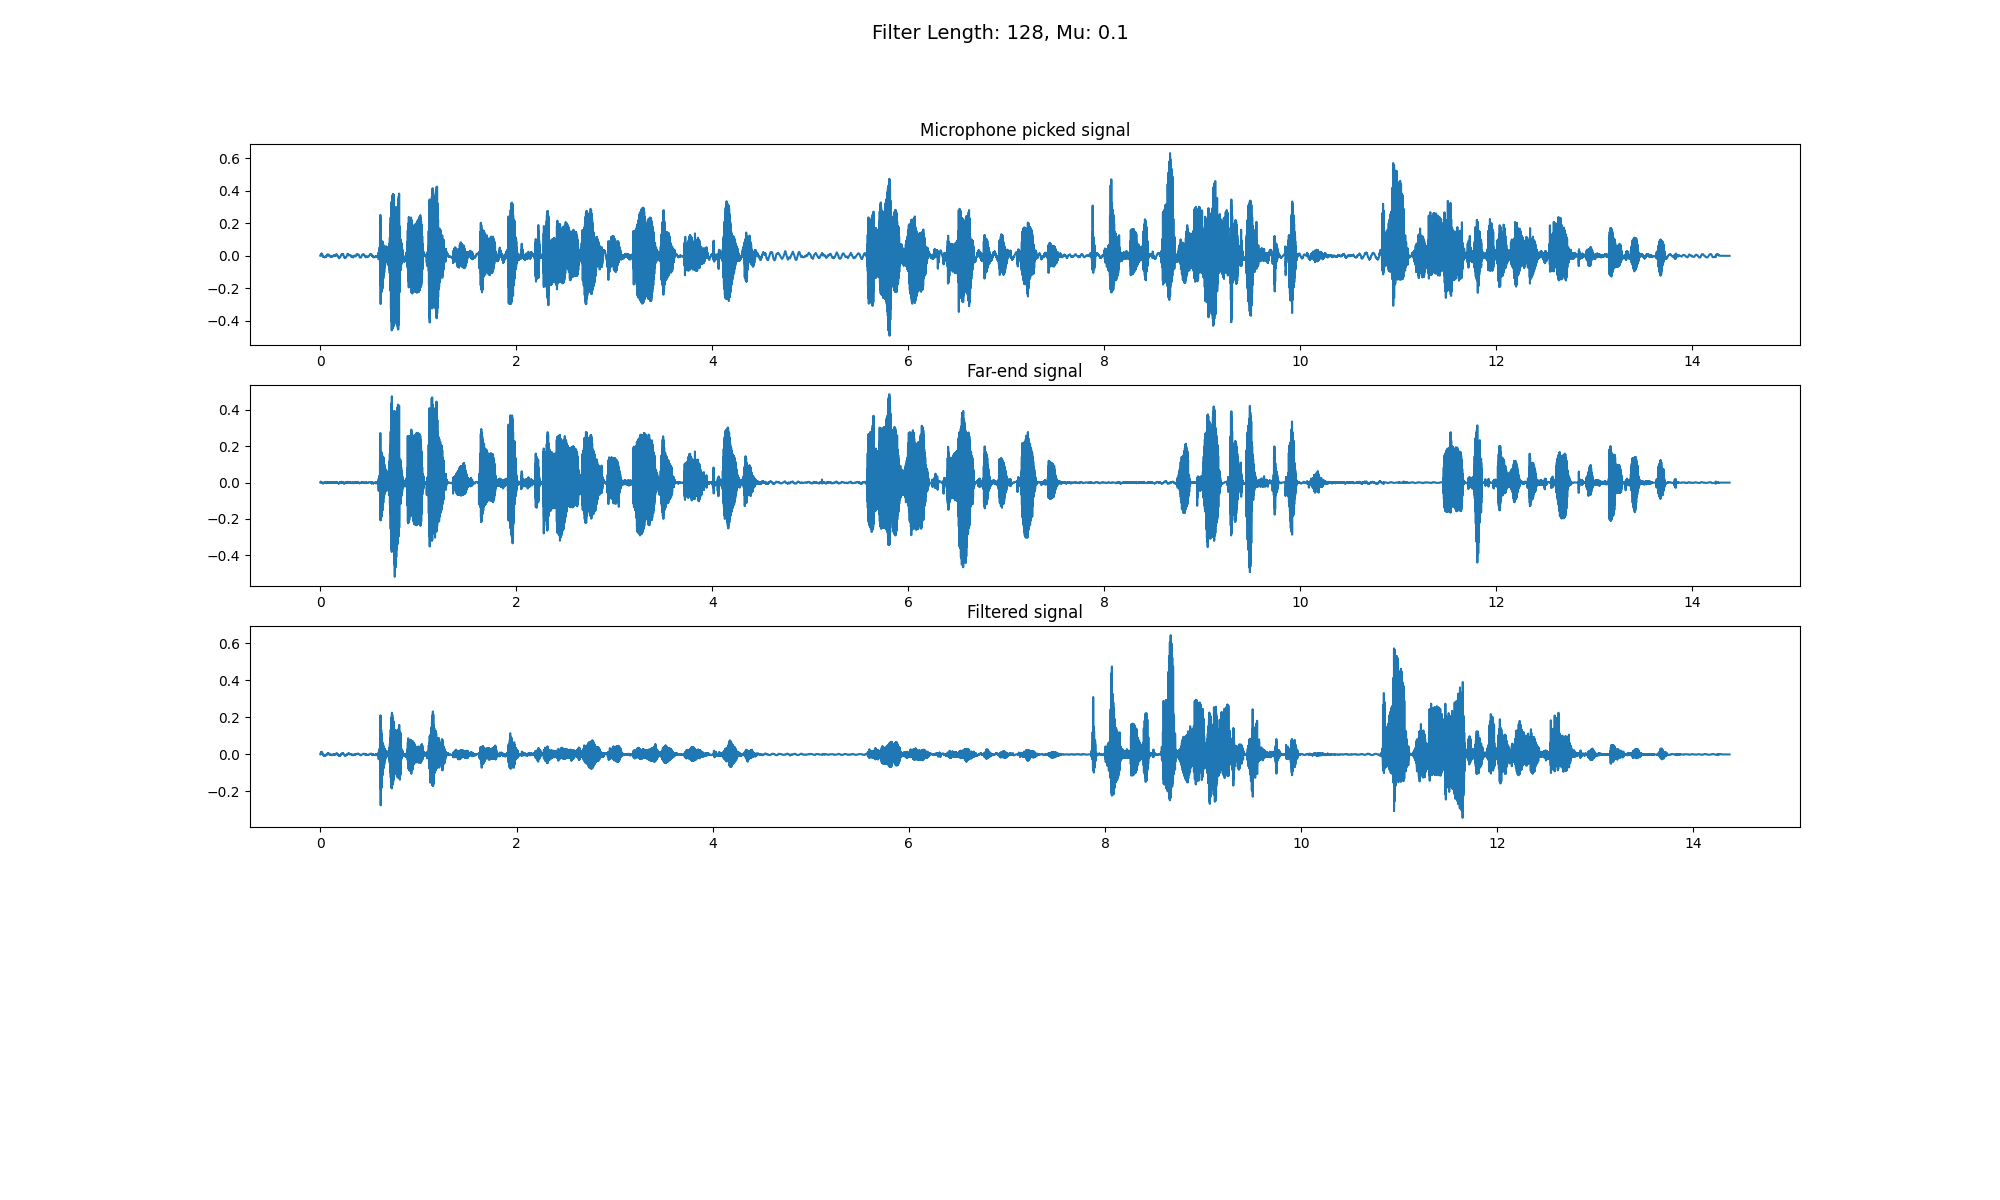
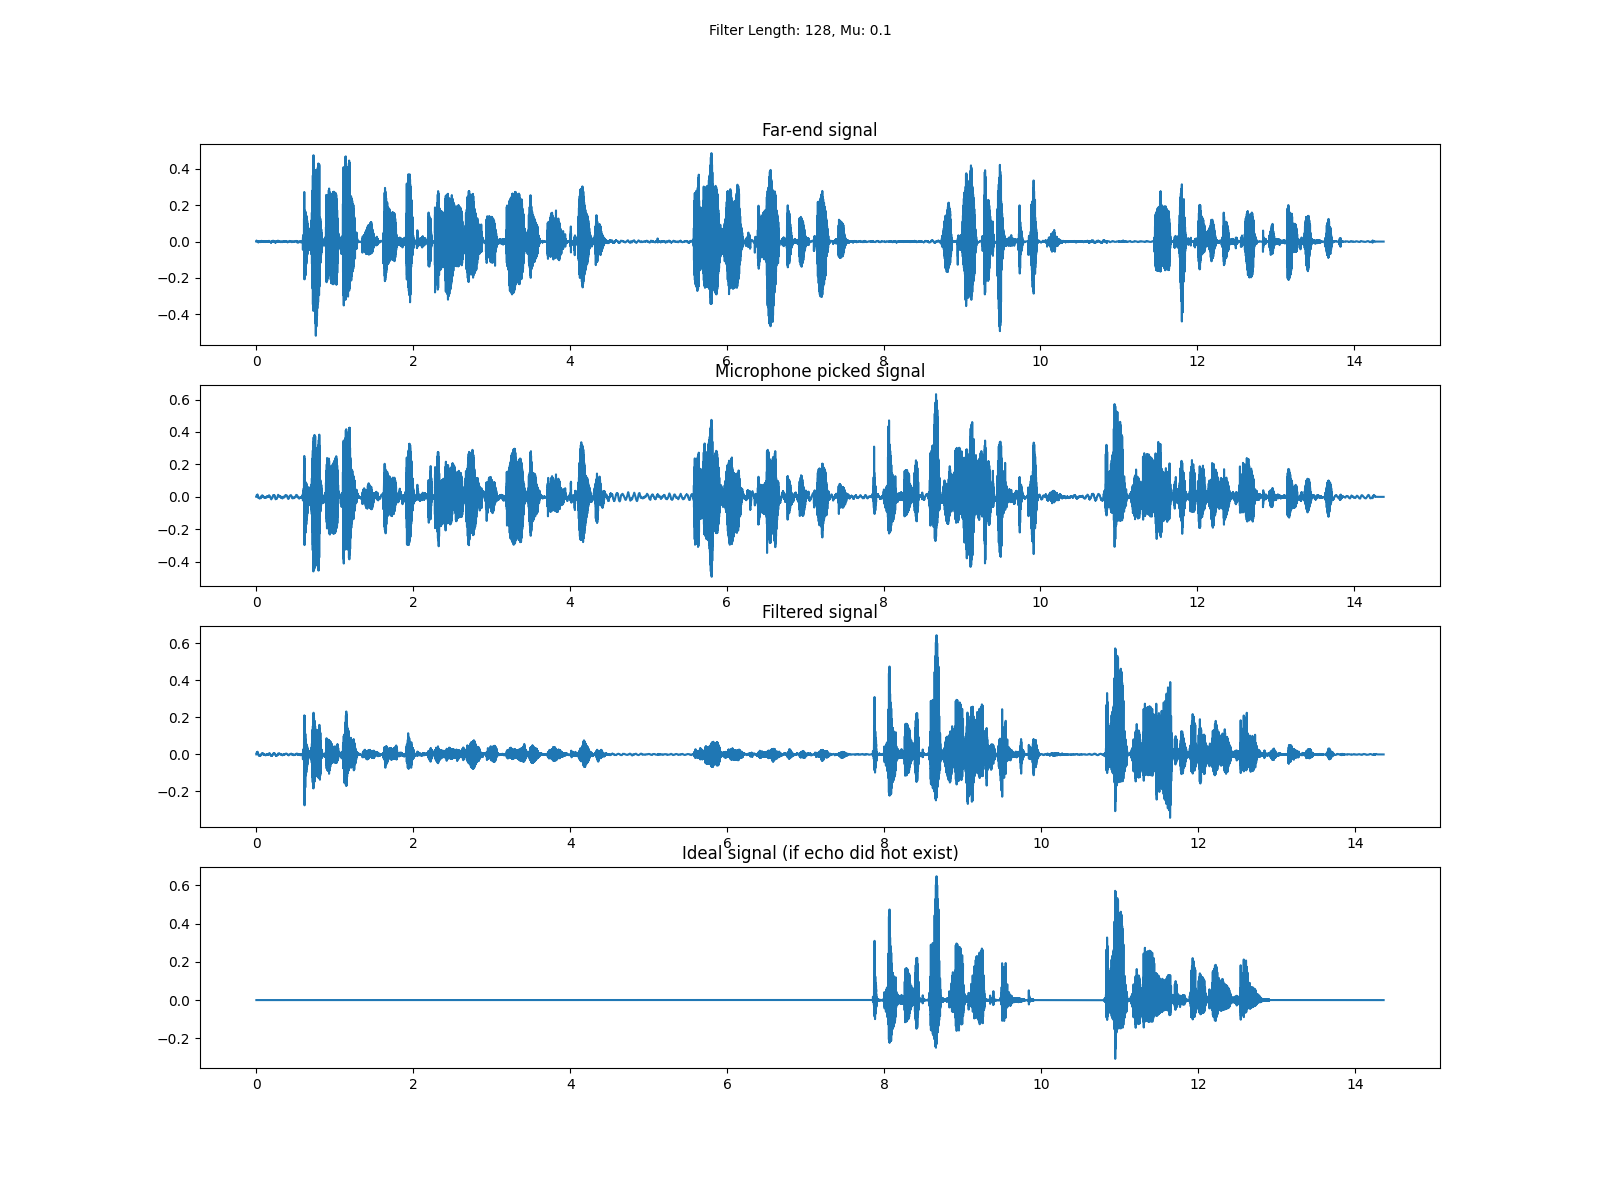
Computed the MSE and SNR

diff --git a/Python/fdaf_filter.py b/Python/fdaf_filter.py
@@ -25,8 +25,10 @@ INPUT_DIR = 'samples'
 OUTPUT_WAV = 'fdaf_audio'
 OUTPUT_PLOTS = 'fdaf_plots'
 
-M = 128
-MU = 0.2
+# M = 256
+# MU = 0.1
+M_list = [32, 64, 128, 256, 512, 1024, 2048]
+MU_list = [0.01, 0.03, 0.05, 0.1, 0.15, 0.2]
 
 def compute_mse_and_snr(ideal_signal, real_signal):
     """
@@ -51,6 +53,7 @@ def compute_mse_and_snr(ideal_signal, real_signal):
     # Calculate SNR
     signal_power = np.mean(ideal_signal ** 2)
     noise_power = np.mean((ideal_signal - real_signal) ** 2)
+    #print(signal_power, noise_power)
     snr = 10 * np.log10(signal_power / noise_power)
 
     return mse, snr
@@ -85,39 +88,63 @@ def main():
     #sf.write(f'{OUTPUT_DIR}/speech1.wav', speech1, sr, subtype='PCM_16')
     #sf.write(f'{OUTPUT_DIR}/near_end_signal.wav', near_end_signal, sr, subtype='PCM_16')
 
-    e = fdaf(speech1, near_end_signal, M=M, mu=MU)
-    e = np.clip(e,-1,1)
-    sf.write(f'{OUTPUT_WAV}/M_{M}_mu_{MU}.wav', e, sr, subtype='PCM_16')
+    for MU in [0.1]:
+        mse_list = []
+        snr_list = []
+        for M in M_list:
+            print(f'Filter Length: {M}, Mu: {MU}')
+            e = fdaf(speech1, near_end_signal, M=M, mu=MU)
+            e = np.clip(e,-1,1)
+            ideal = speech2[0:len(e)]
 
-    plt.figure(figsize=(20, 12))
-    
-    t = np.arange(len(speech1)) / sr
-    plt.subplot(4, 1, 2)
-    plt.title('Far-end signal')
-    plt.plot(t, speech1)
-    
-    t = np.arange(len(near_end_signal)) / sr
-    plt.subplot(4, 1, 1)
-    plt.title('Microphone picked signal')
-    plt.plot(t, near_end_signal)
+            # sf.write(f'{OUTPUT_WAV}/M_{M}_mu_{MU}.wav', e, sr, subtype='PCM_16')
 
-    t = np.arange(len(e)) / sr
-    plt.subplot(4, 1, 3)
-    plt.title('Filtered signal')
-    plt.plot(t, e)
+            # plt.figure(figsize=(16, 12))
+            
+            # t = np.arange(len(speech1)) / sr
+            # plt.subplot(4, 1, 1)
+            # plt.title('Far-end signal')
+            # plt.plot(t, speech1)
+            
+            # t = np.arange(len(near_end_signal)) / sr
+            # plt.subplot(4, 1, 2)
+            # plt.title('Microphone picked signal')
+            # plt.plot(t, near_end_signal)
 
-    t = np.arange(len(speech2)) / sr
-    plt.subplot(4, 1, 4)
-    plt.title('Ideal signal (if echo did not exist)')
-    plt.plot(t, speech2)
+            # t = np.arange(len(e)) / sr
+            # plt.subplot(4, 1, 3)
+            # plt.title('Filtered signal')
+            # plt.plot(t, e)
 
-    plt.suptitle(f'Filter Length: {M}, Mu: {MU}', fontsize=14)
-    plt.savefig(f"{OUTPUT_PLOTS}/M_{M}_step_{MU}.png")
-    
-    mse, snr = compute_mse_and_snr(speech2, e)
+            # plt.subplot(4, 1, 4)
+            # plt.title('Ideal signal (if echo did not exist)')
+            # plt.plot(t, ideal)
 
-    print(f"MSE: {mse}")
-    print(f"SNR: {snr} dB")
+            # plt.suptitle(f'Filter Length: {M}, Mu: {MU}', fontsize=10)
+            # plt.savefig(f"{OUTPUT_PLOTS}/M_{M}_step_{MU}.png")
+            
+            mse, snr = compute_mse_and_snr(ideal[60000:], e[60000:])
+
+            #print(f"MSE: {mse}")
+            #print(f"SNR: {snr} dB")
+            snr_list.append(snr)
+            mse_list.append(mse)
+        
+        plt.figure(figsize=(20, 16))
+            
+        plt.subplot(2, 1, 1)
+        plt.title('Mean Squared Error')
+        plt.ylabel('MSE')
+        plt.xlabel('Filter Length')
+        plt.plot(M_list, mse_list)
+        
+        plt.subplot(2, 1, 2)
+        plt.title('Signal-to-Noise Ratio')
+        plt.ylabel('SNR (dB)')
+        plt.xlabel('Filter Length')
+        plt.plot(M_list, snr_list)
+
+        plt.show()
 
 
 if __name__ == '__main__':
